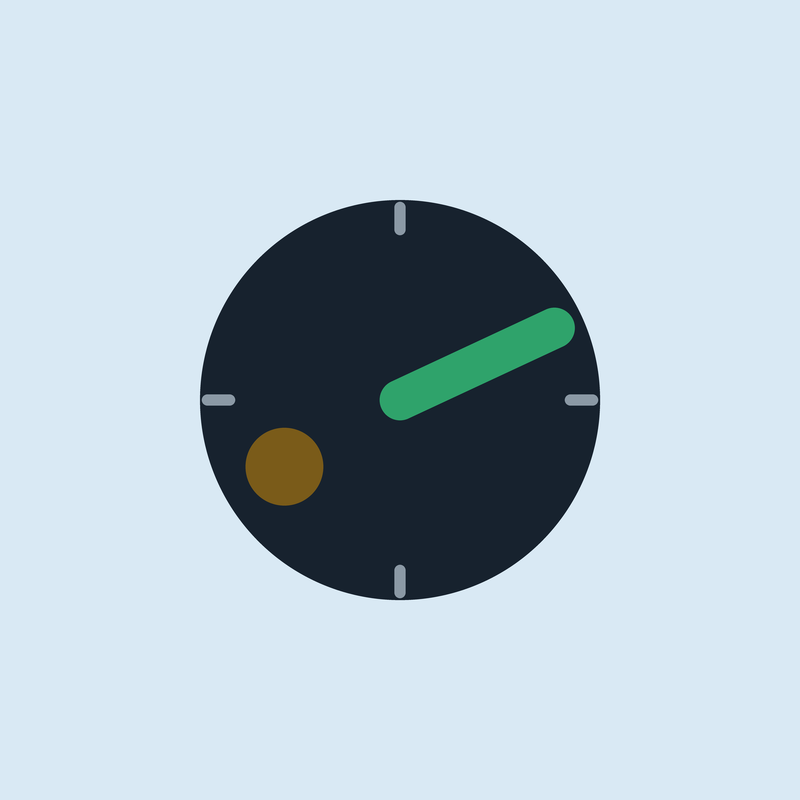
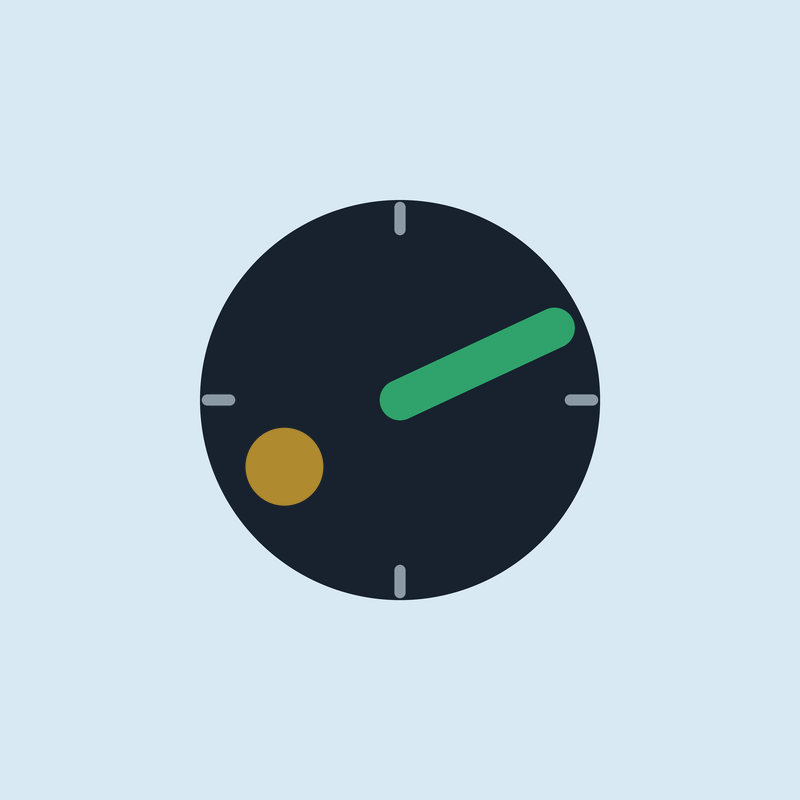
Brighten brand mark contact dot to G4's original #B08A2E
User override (2026-08-16 evening): reviewed the token-synced #7A5B19
dot against G4's original brighter #B08A2E and chose the brighter
value - "brighter dot wins over token-sync." Applied everywhere the
dot appears: terrawatch-mark.svg, the adaptive-icon foreground vector,
all 10 legacy mipmap-*dpi/ic_launcher*.png rasters, icon-1024.png,
feature-graphic.png, and 6 of 9 store-assets/social/art/ files (the 3
ig-post-* screenshots were checked and confirmed to contain zero
dot-colored pixels - no change needed there). Monochrome layer and the
notification glyph are untouched (single-color by spec, no hex to
change).

Recolored raster assets in place via a colorimetric blend-line
projection (re-derives each file's own already-baked anti-aliasing
weights against the new hex) rather than a from-scratch re-render: no
SVG rasterizer is installed on this machine, and several composited
assets (feature graphic's wordmark/tagline, avatar crops, channel-art
centering) don't have their original compositing script in this repo
to re-derive faithfully. Verified per file with before/after zoomed
crops before applying, and every touched bounding box matches the
geometrically-expected dot location.

final-rationale.md keeps the original 2026-08-15 token-sync reasoning
as a superseded section rather than deleting it - the dot is now a
disclosed, intentional exception to core/ui's Tokens.kt ("hex values
are LAW"): WarnInk itself stays #7A5B19 everywhere else in the app.
[…]

Changed region(s): [[0.2812, 0.5312, 0.4062, 0.6562]]

diff --git a/store-assets/brand/final/final-rationale.md b/store-assets/brand/final/final-rationale.md
@@ -1,5 +1,51 @@
 # TerraWatch logo — FINAL mark rationale (Plan 5 Task 4 phase 2 / Task 6 phase 2)
 
+## 2026-08-16 evening — user override: brighter dot wins over token-sync
+
+**This section supersedes the dot-color decision below it. Read this first.** The original
+decision (next section down) was to use the *current* `WarnInk` token (`#7A5B19`) instead of
+G4's own stale `#B08A2E`, specifically to stay consistent with `Tokens.kt`'s "these hex values
+are LAW" convention. The user has now reviewed both side by side and explicitly chosen the
+**brighter `#B08A2E`** instead — direct instruction: the mark's contact dot becomes G4's
+original color "everywhere the AMBER dot appears."
+
+This is a deliberate reversal of the token-sync argument below, not a discovery that the
+original reasoning was wrong. Both tensions are true at once and both stay documented:
+
+- The token-sync argument (below) is still technically sound: `#7A5B19` is what `WarnInk`
+  actually is today, and `#B08A2E` is a value the app's real design-token source of truth has
+  moved away from for a real accessibility reason (WCAG AA on `RevisionBadge`).
+- The user's aesthetic call overrides it anyway: `#B08A2E` reads as a stronger, more legible
+  "pop" for the mark's one warm accent, which is exactly the quality `final-preview.png`'s own
+  48px crop flagged as diminished under `#7A5B19` ("does not 'pop' quite as much as the
+  brighter hex the user actually viewed when making the pick").
+- **Consequence, flagged rather than hidden:** the brand mark's contact dot (`terrawatch-mark.svg`,
+  `ic_launcher_foreground.xml`, and every raster derived from them) now uses a hardcoded
+  `#B08A2E` that is *not* sourced from `core/ui`'s `Tokens.kt` and does not track `WarnInk` if
+  that token ever moves again. This is the opposite of the "one consistent token" principle
+  the section below argues for — accepted here as an explicit, user-directed exception scoped
+  to this one asset, not a silent regression. `RevisionBadge` and every other `WarnInk` consumer
+  in the running app are unaffected; only the brand mark's dot diverges.
+- Monochrome (`terrawatch-mark-monochrome.svg`, `ic_launcher_monochrome.xml`) and the
+  notification glyph (`ic_stat_terrawatch.xml`) are untouched by this override — both are
+  single-color/alpha-only by spec (see their own sections below), so there is no hex in either
+  for this change to touch.
+
+Regenerated this pass: `terrawatch-mark.svg`, `ic_launcher_foreground.xml`, all 10
+legacy `mipmap-*dpi/ic_launcher*.png` rasters, `store-assets/icon-1024.png`,
+`store-assets/feature-graphic.png`, and 6 of the 9 `store-assets/social/art/` files (the 3
+`ig-post-*` files are screenshots pillarboxed onto a canvas and were confirmed — not assumed —
+to contain zero dot-colored pixels; the notification glyph they show is the unaffected
+monochrome glyph, not the mark). Method: colorimetric in-place recolor (locate the dot's
+existing anti-aliased region, re-project its already-baked blend weights against the new hex)
+rather than a from-scratch re-render — chosen because this machine still has no SVG rasterizer
+(rsvg-convert/cairosvg/inkscape/resvg all re-checked absent) and, for the composited assets
+(feature graphic's wordmark/tagline/decorative dots, the avatar crops, channel-art centering),
+the original compositing script/exact metrics aren't in this repo to re-derive faithfully. This
+approach reproduces the exact original anti-aliasing profile and is scoped, provably, to only
+the dot's own pixels — verified per file by diffing the touched bounding box against the
+geometrically-expected dot location before writing anything.
+
 User verdict: **G2's geometry** (`store-assets/brand/round3/direction-g2.svg` — "dial + cardinal
 ticks") **with G4's color treatment** (`store-assets/brand/round3/direction-g4.svg` — "epicenter
 accent dot") applied to the contact dot only. This document records exactly how the two were
@@ -28,7 +74,14 @@ G2 and G4 are both one-change variations of the same round-2 winner (`round2/dir
 Because G2 and G4 never touch the same element (G2 touches ticks only, G4 touches the dot only),
 this merge has no real conflict to arbitrate — every element's source direction is unambiguous.
 
-## Correction: the dot's exact hex (read before assuming this is a typo)
+## Superseded: 2026-08-15 token-sync decision (kept for the record — see top of file for what shipped)
+
+**The color conclusion in this section is no longer what ships.** It's kept verbatim below
+because the reasoning is still accurate as *of the day it was written*, and the "2026-08-16
+evening" section at the top of this file is a deliberate, disclosed override of it, not a
+correction of an error — both are worth a reader's attention, not just the newest one.
+
+### Correction: the dot's exact hex (read before assuming this is a typo)
 
 `direction-g4.svg`'s own comments and `round3-rationale.md` both cite the dot's color as
 **`#B08A2E`**, sourced (their own words) from "`core/ui/.../Tokens.kt` (TerraColors), grepped fresh
@@ -66,10 +119,12 @@ Surfaced explicitly in this task's own report back to the user for exactly that 
 ## Hex budget
 
 Final mark uses **4 distinct hexes**: Water (background, ticks-at-0.6), Ink (disc), Safe (needle),
-WarnInk (dot). This matches G4's own already-disclosed departure from the 3-hex budget (Ink/Water/
-Safe) every other direction across all three rounds held to — inheriting G4's dot inherits G4's
-own already-accepted trade-off, not a new one. (G2 alone, before this merge, stayed inside the
-3-hex budget — the 4th hex enters specifically because G4's dot was picked on top of it.)
+and `#B08A2E` for the dot (**as of the 2026-08-16 override, above** — this was `WarnInk`/`#7A5B19`
+from 2026-08-15 through that override; see that section for why the dot no longer tracks the
+token). This matches G4's own already-disclosed departure from the 3-hex budget (Ink/Water/Safe)
+every other direction across all three rounds held to — inheriting G4's dot inherits G4's own
+already-accepted trade-off, not a new one. (G2 alone, before this merge, stayed inside the 3-hex
+budget — the 4th hex enters specifically because G4's dot was picked on top of it.)
 
 ## Monochrome variant
 
